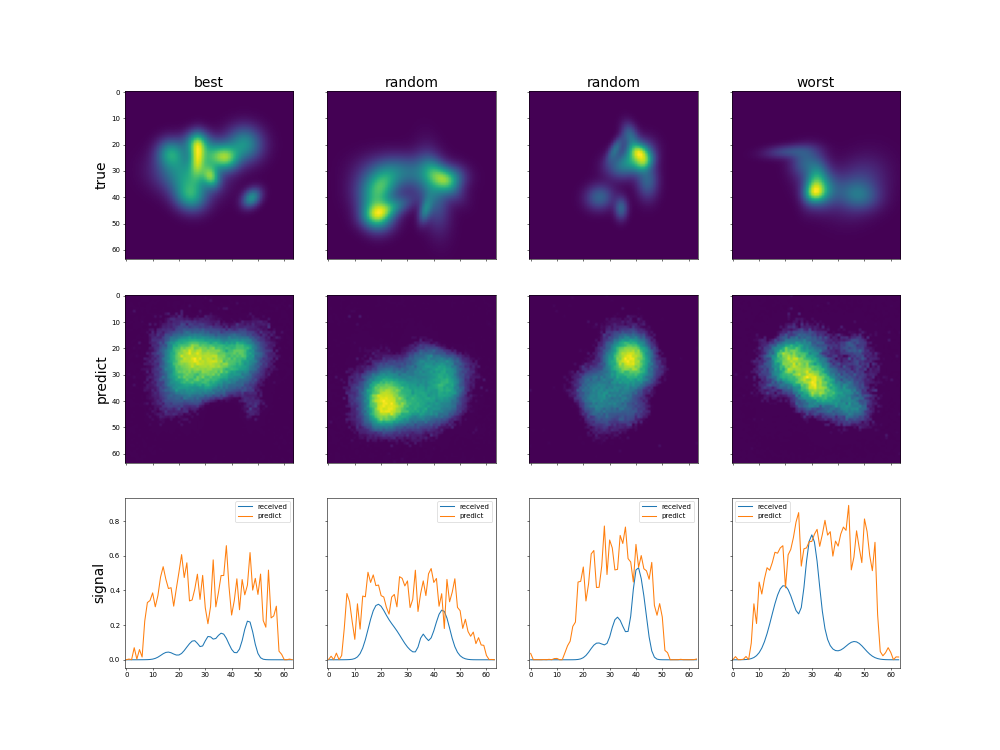
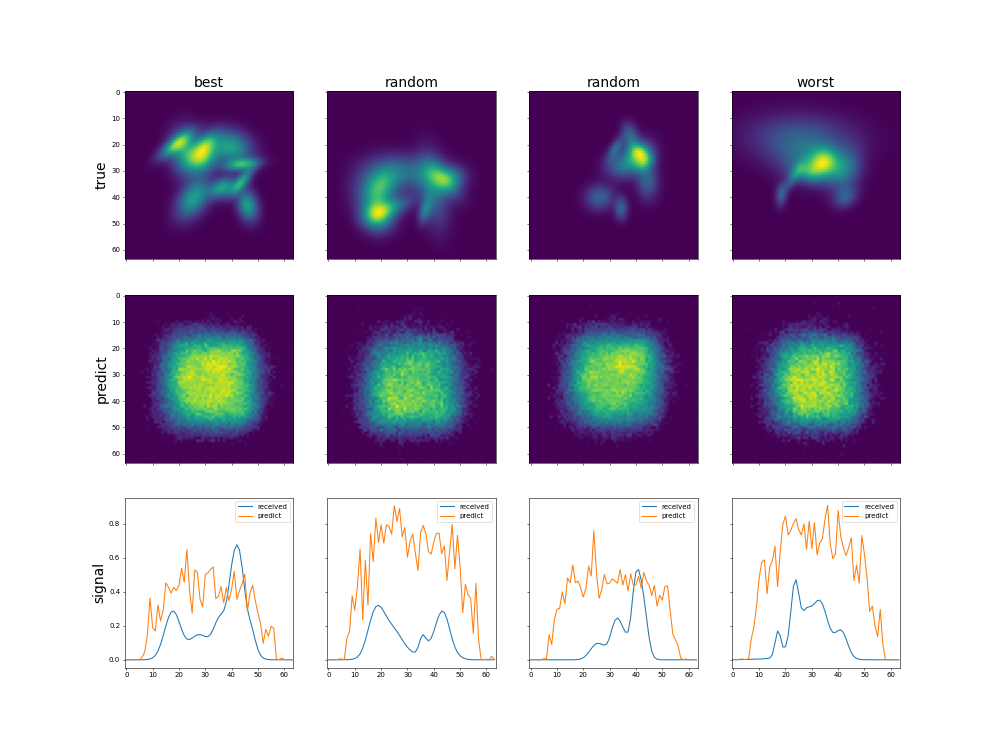
More predict examples locally

diff --git a/dvc_plots/index.html b/dvc_plots/index.html
@@ -34,97 +34,6 @@
     },
     {
         "filename": "reports/learning_curve.csv",
-        "rev": "workspace",
-        "step": 2,
-        "test_loss": "0.08352503180503845",
-        "train_loss": "0.08555318728917174"
-    },
-    {
-        "filename": "reports/learning_curve.csv",
-        "rev": "workspace",
-        "step": 3,
-        "test_loss": "0.07926923781633377",
-        "train_loss": "0.07853749588959746"
-    },
-    {
-        "filename": "reports/learning_curve.csv",
-        "rev": "workspace",
-        "step": 4,
-        "test_loss": "0.07641220092773438",
-        "train_loss": "0.0744048543771108"
-    },
-    {
-        "filename": "reports/learning_curve.csv",
-        "rev": "workspace",
-        "step": 5,
-        "test_loss": "0.07408914715051651",
-        "train_loss": "0.0705184021178219"
-    },
-    {
-        "filename": "reports/learning_curve.csv",
-        "rev": "workspace",
-        "step": 6,
-        "test_loss": "0.07217777520418167",
-        "train_loss": "0.06679835286819273"
-    },
-    {
-        "filename": "reports/learning_curve.csv",
-        "rev": "workspace",
-        "step": 7,
-        "test_loss": "0.07101863622665405",
-        "train_loss": "0.06339840183241499"
-    },
-    {
-        "filename": "reports/learning_curve.csv",
-        "rev": "workspace",
-        "step": 8,
-        "test_loss": "0.07028790563344955",
-        "train_loss": "0.06028153050276968"
-    },
-    {
-        "filename": "reports/learning_curve.csv",
-        "rev": "workspace",
-        "step": 9,
-        "test_loss": "0.06944434344768524",
-        "train_loss": "0.05735603346178929"
-    },
-    {
-        "filename": "reports/learning_curve.csv",
-        "rev": "workspace",
-        "step": 10,
-        "test_loss": "0.06923016905784607",
-        "train_loss": "0.05456877756863832"
-    },
-    {
-        "filename": "reports/learning_curve.csv",
-        "rev": "workspace",
-        "step": 11,
-        "test_loss": "0.06915896385908127",
-        "train_loss": "0.05194008098708259"
-    },
-    {
-        "filename": "reports/learning_curve.csv",
-        "rev": "workspace",
-        "step": 12,
-        "test_loss": "0.06933432817459106",
-        "train_loss": "0.04942916633354293"
-    },
-    {
-        "filename": "reports/learning_curve.csv",
-        "rev": "workspace",
-        "step": 13,
-        "test_loss": "0.06994806230068207",
-        "train_loss": "0.04709474857482645"
-    },
-    {
-        "filename": "reports/learning_curve.csv",
-        "rev": "workspace",
-        "step": 14,
-        "test_loss": "0.07053206115961075",
-        "train_loss": "0.04492740069826444"
-    },
-    {
-        "filename": "reports/learning_curve.csv",
         "rev": "973a7c",
         "step": 0,
         "test_loss": "0.23149331799149514",

diff --git a/dvc_evaluate_model.py b/dvc_evaluate_model.py
@@ -77,7 +77,7 @@ print(summary(
       file=report)
 print('\n```', file=report)
 
-writer=SummaryWriter('logsdir')
+writer = SummaryWriter('logsdir')
 writer.add_graph(model, next(iter(test_dataloader))[0])
 writer.close()
 # %%
@@ -119,6 +119,44 @@ losses, pred_pic = picturewise_loss_and_predict(
 pred_pic.shape, losses.shape
 
 # %%
+import torch_sensor_lib as tsl
+
+
+def create_examples_mesh(indecies, sample_titles):
+    '''
+    plots mesh of pictures, by indecies
+    '''
+    y_titles = ["true", "predict", "signal"]
+    s = tsl.FiberSimulator(config, device='cpu')
+    config['env']['phys']['noise'] = 0
+    config['env']['phys']['relative_noise'] = 0
+
+    data = []
+    for ind in indecies:
+        data.append([])
+        double_ind = np.unravel_index(
+            ind, (len(test_dataloader), len(losses) // len(test_dataloader)))
+        signal, pic = test_dataloader[double_ind[0]]
+        signal, pic = signal[double_ind[1]], pic[double_ind[1]]
+        data[-1].append(pic)
+        data[-1].append(pred_pic[ind])
+        true_signal = signal[0]
+        pred_signal = s._sum_fiber_losses(
+            torch.from_numpy(pred_pic[ind:ind + 1]))[0].numpy()
+        data[-1].append(
+            np.concatenate(
+                [true_signal.reshape(-1, 1),
+                 pred_signal.reshape(-1, 1)],
+                axis=1))
+
+    visual_func = [lambda ax, pic: ax.imshow(pic)] * 2 + [
+        lambda ax, pic:
+        (ax.plot(pic, label=['received', 'predict']), ax.legend(loc="best"))
+    ]
+    tsl.visual_table_of_pictures(data, sample_titles, y_titles, visual_func)
+
+
+# %%
 best_ind = losses.argmin()
 worst_ind = losses.argmax()
 rand_ind1 = np.random.randint(len(losses))
@@ -127,38 +165,43 @@ indexes = [best_ind, rand_ind1, rand_ind2, worst_ind]
 sample_titles = ["best", "random", "random", "worst"]
 y_titles = ["true", "predict", "signal"]
 
-# %%
-import torch_sensor_lib as tsl
+create_examples_mesh(indexes, sample_titles)
 
-# %%
-s = tsl.FiberSimulator(config, device='cpu')
-config['env']['phys']['noise'] = 0
-config['env']['phys']['relative_noise'] = 0
-# TODO remove signal noise here
-data = []
-for ind in indexes:
-    data.append([])
-    double_ind = np.unravel_index(
-        ind, (len(test_dataloader), len(losses) // len(test_dataloader)))
-    signal, pic = test_dataloader[double_ind[0]]
-    signal, pic = signal[double_ind[1]], pic[double_ind[1]]
-    data[-1].append(pic)
-    data[-1].append(pred_pic[ind])
-    true_signal = signal[0]
-    pred_signal = s._sum_fiber_losses(torch.from_numpy(pred_pic[ind:ind +
-                                                                1]))[0].numpy()
-    data[-1].append(
-        np.concatenate([true_signal.reshape(-1, 1),
-                        pred_signal.reshape(-1, 1)],
-                       axis=1))
+# s = tsl.FiberSimulator(config, device='cpu')
+# config['env']['phys']['noise'] = 0
+# config['env']['phys']['relative_noise'] = 0
 
-# %%
-visual_func = [lambda ax, pic: ax.imshow(pic)] * 2 + [
-    lambda ax, pic:
-    (ax.plot(pic, label=['received', 'predict']), ax.legend(loc="best"))
-]
-tsl.visual_table_of_pictures(data, sample_titles, y_titles, visual_func)
+# data = []
+# for ind in indexes:
+#     data.append([])
+#     double_ind = np.unravel_index(
+#         ind, (len(test_dataloader), len(losses) // len(test_dataloader)))
+#     signal, pic = test_dataloader[double_ind[0]]
+#     signal, pic = signal[double_ind[1]], pic[double_ind[1]]
+#     data[-1].append(pic)
+#     data[-1].append(pred_pic[ind])
+#     true_signal = signal[0]
+#     pred_signal = s._sum_fiber_losses(torch.from_numpy(pred_pic[ind:ind +
+#                                                                 1]))[0].numpy()
+#     data[-1].append(
+#         np.concatenate([true_signal.reshape(-1, 1),
+#                         pred_signal.reshape(-1, 1)],
+#                        axis=1))
+
+# # %%
+# visual_func = [lambda ax, pic: ax.imshow(pic)] * 2 + [
+#     lambda ax, pic:
+#     (ax.plot(pic, label=['received', 'predict']), ax.legend(loc="best"))
+# ]
+# tsl.visual_table_of_pictures(data, sample_titles, y_titles, visual_func)
 plt.savefig(jn(out_path, 'predict_examples.png'), dpi=50)
+
+# more random predict examples
+n = 6
+indexes = np.random.randint(len(losses), size=n)
+sample_titles = ["random"] * n
+create_examples_mesh(indexes, sample_titles)
+plt.savefig(jn(out_path, 'rand_examples.png'), dpi=100)
 
 # %%
 print("## Examples of predictions", file=report)

diff --git a/dvc_model_learning.py b/dvc_model_learning.py
@@ -199,7 +199,7 @@ if not os.path.exists(config['evaluate']['reports_path']):
     os.makedirs(config['evaluate']['reports_path'])
 df.to_csv(jn(config['evaluate']['reports_path'], 'learning_curve.csv'),
           index=False)
-res = {'train': {'loss': train_loss[-1]}, 'test': {'loss': test_loss[-1]}}
+res = {'train': {'loss': train_loss[-1]}, 'test': {'loss': min(test_loss)}}
 with open(jn(config['evaluate']['reports_path'], "summary.json"), "w") as f:
     json.dump(res, f)
 
